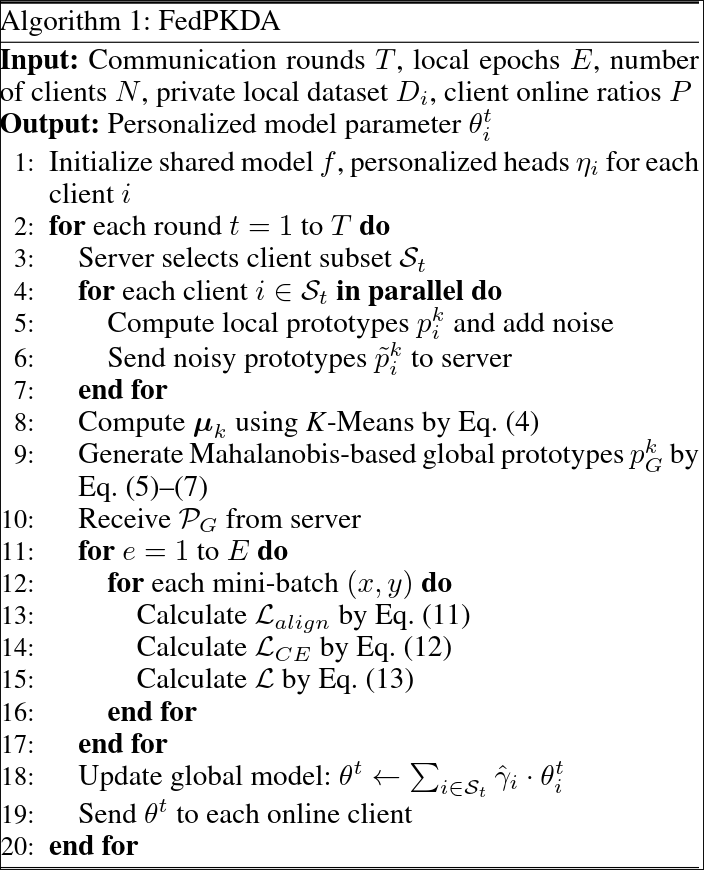
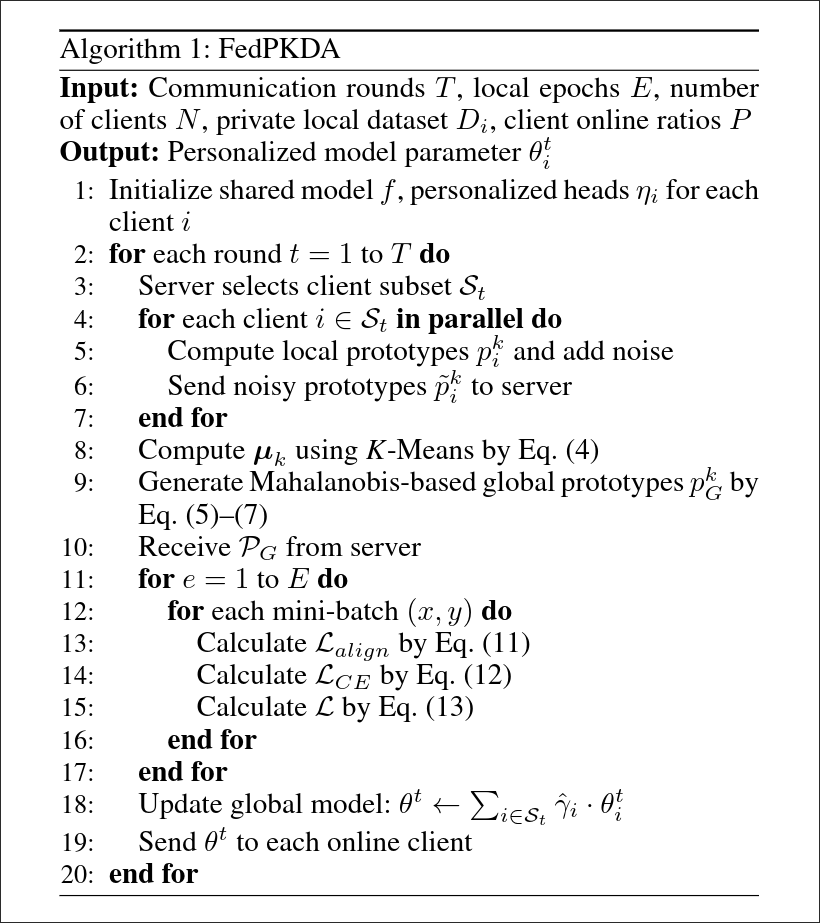
Update notes and add overall image

diff --git a/notes.md b/notes.md
@@ -1,17 +1,89 @@
 # note
 
+## 裁剪 (Clipping)
+
+> 原文: the extracted feature vectors are clipped to a fixed range to reduce the risk of sensitive information leakage
+
+裁剪指的是将超过指定膜长的向量化为方向不变， 大小为最大膜长限制的向量。
+用于减少信息泄漏
+
+---
+
+## Client-Server 架构
+
+- cilent: 数据在本地, 训练在本地, 传输本地模型的权重或者梯度
+- server: 接收多个 client 的权重或者梯度, 更新全局模型, 广播模型
+
+---
+
+## 通信轮数
+
+进行下面这些循环的次数, 每经过一次算一轮
+
+1. 分发模型至各客户端
+2. 客户端使用本地数据训练
+3. 上传模型更新（梯度/权重）
+4. 服务器聚合更新，生成新全局模型(并广播)
+
+---
+
+## 参与率
+
+- 本轮选中的客户端数量 / 参与联邦学习的全部客户端数量
+
+---
+
 ## Class Prototype (类原型)
 
 - 什么是类原型？
-简单说，就是把同一类别的所有样本（比如“猫”的所有图片），在模型的特征空间里取一个平均向量。这个原型代表了该类别的核心语义特征，而不是某一张具体的图片。
+  简单说，就是把同一类别的所有样本（比如“猫”的所有图片），在模型的特征空间里取一个平均向量。这个原型代表了该类别的核心语义特征，而不是某一张具体的图片。
 
 - 为什么这能保护隐私？
+  
   - 信息被高度压缩：一张高清图片可能有上百万个像素点，而一个原型只是一个几百维的向量。你无法从“平均脸”还原出任何一张具体的脸。
-
+  
   - 信息被抽象化：原型提取的是“什么是猫”的共性知识，丢弃了“这只猫耳朵上有块黑斑”这种个体细节。攻击者拿到原型，最多知道“这个客户端有猫”，但不知道具体是哪只猫、长什么样。
 
-> 所以，特征提取本身就已经完成了一次信息泛化和脱敏，大幅降低了原始数据被还原的风险。
+- 所以，特征提取本身就已经完成了一次信息泛化和脱敏，大幅降低了原始数据被还原的风险。
+
+- 如何使用 Prototype ?
+
+用于计算 本地的样本和原型之间计算距离
+得到 $\mathcal{L}_{LA}$ 本地的损失
+以及 $\mathcal{L}_{GA}$ 对于全局损失
+
+---
 
 ## Laplacian Noise
 
 - 提供可量化的ϵϵ-DP数学保障，即使原型被截获也无法还原. 是数学上更合理的噪声分布选择
+
+---
+
+## Loss
+
+- step1
+
+$\mathcal{L}_{align} = \omega_{local} \cdot (1 - \varphi(t)) \cdot \mathcal{L}_{LA} + \omega_{global} \cdot \varphi(t) \cdot \mathcal{L}_{GA}$
+
+计算**双对齐**的损失
+
+- step2
+
+$\mathcal{L}_{CE} = - E_{(x,y) \sim D_i}[log {}{p(y|x)}]$
+
+计算**标准的有监督学习的交叉熵损失**
+
+- step3
+
+$\mathcal{L} = \mathcal{L}_{CE} + \mathcal{L}_{align}$
+
+将两个损失相加得到总的损失
+
+---
+
+## FIM (Fisher Information Matrix)
+
+通常通过本地损失函数对模型参数的二阶导数来近似
+
+主要作用是保护 **高密度/稀有** 的本地知识不被平均掉

diff --git a/docs/fedpkda.md b/docs/fedpkda.md
@@ -4,8 +4,8 @@
 
 ## 3.1 总体框架概览
 
-- 三大核心模块关系图
 - 数据流向：客户端 → 服务器 → 客户端
+![总体流程](./images/pic8_overall.png)
 
 ## 3.2 模块一: 跨客户端原型隐私保护
 
@@ -16,7 +16,7 @@
 
 ## 3.3 模块二: 服务器端几何滤波
 
-- K-Means **聚类**获取几何中心
+- [K-Means聚类](https://en.wikipedia.org/wiki/K-means_clustering) 获取几何中心
 - [马氏距离](/docs/utils/ma_distance.md) 计算各原型**偏离程度**
 - 反距离**加权聚合**
 - 生成干净全局原型

diff --git a/docs/basic_background.md b/docs/basic_background.md
@@ -42,17 +42,8 @@ AI训练对于数据有非常大的需求
 ## 1.3 联邦学习的典型架构
 
 - Client-Server 架构
-
-> cilent: 数据在本地, 训练在本地, 传输本地模型的权重或者梯度
-> server: 接收多个 client 的权重或者梯度, 更新全局模型, 广播模型
-
 - 通信轮次 (Communication Round)
-
-> 2 -> 5
-
 - 参与率 (Participation Rate)
-
-> 本轮选中的客户端数量 / 参与联邦学习的全部客户端数量
 
 ---
 
